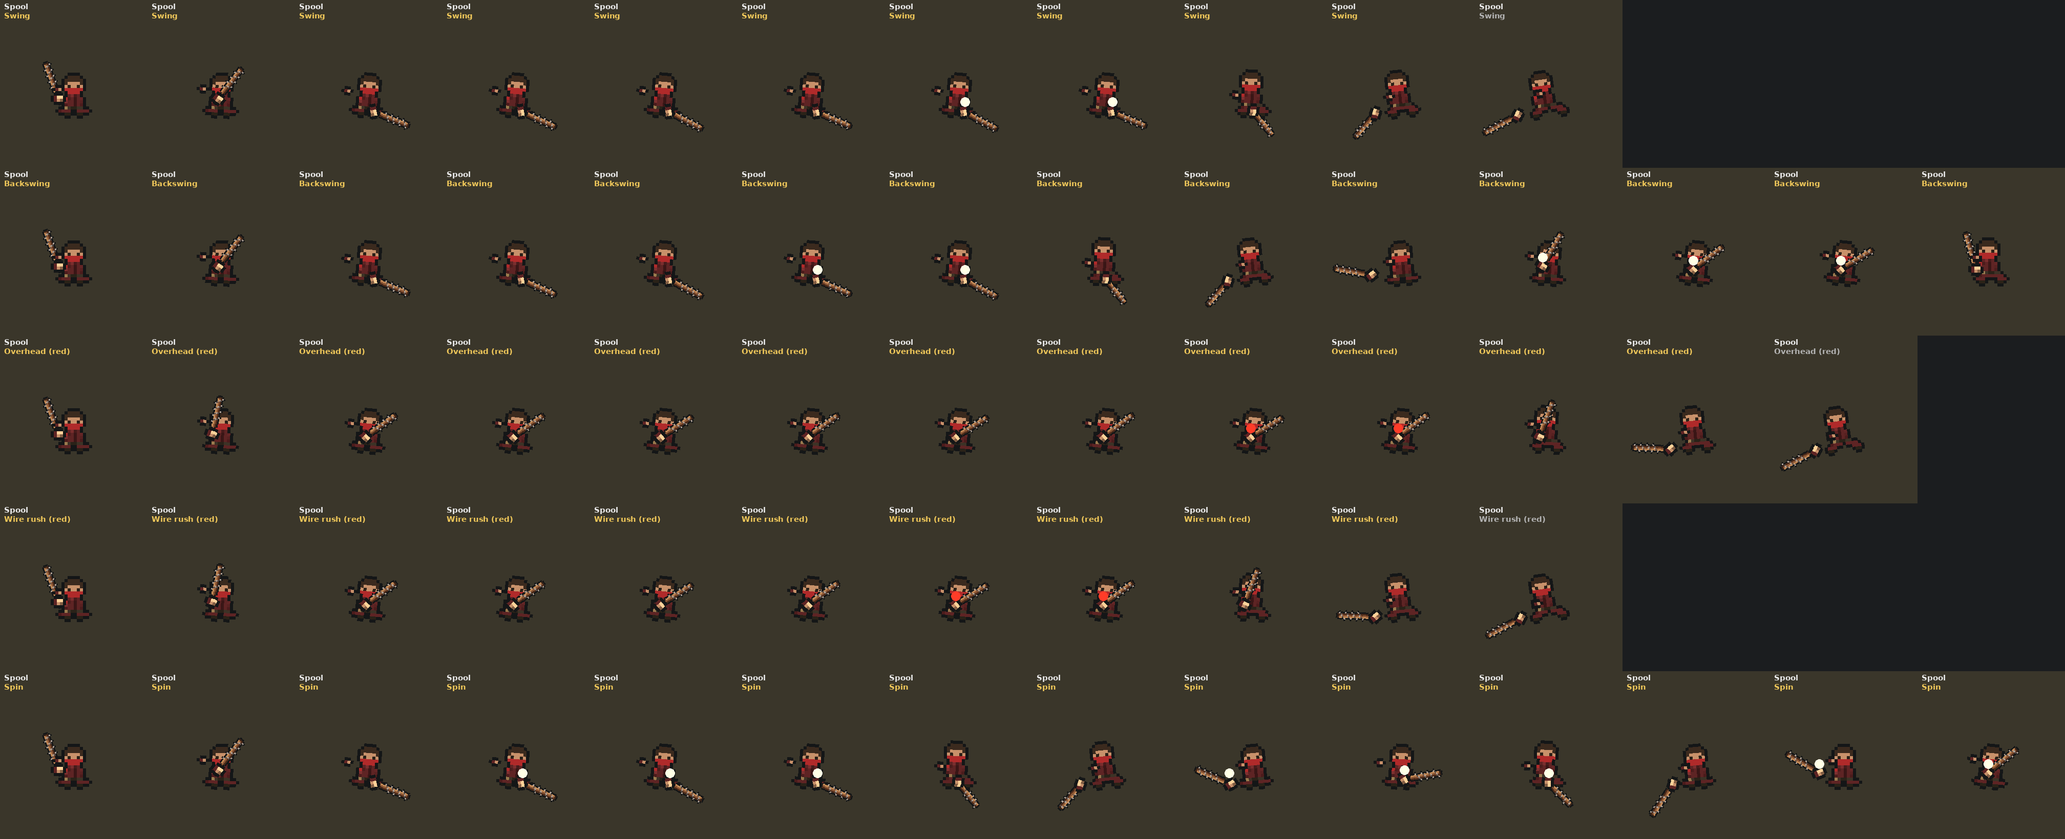
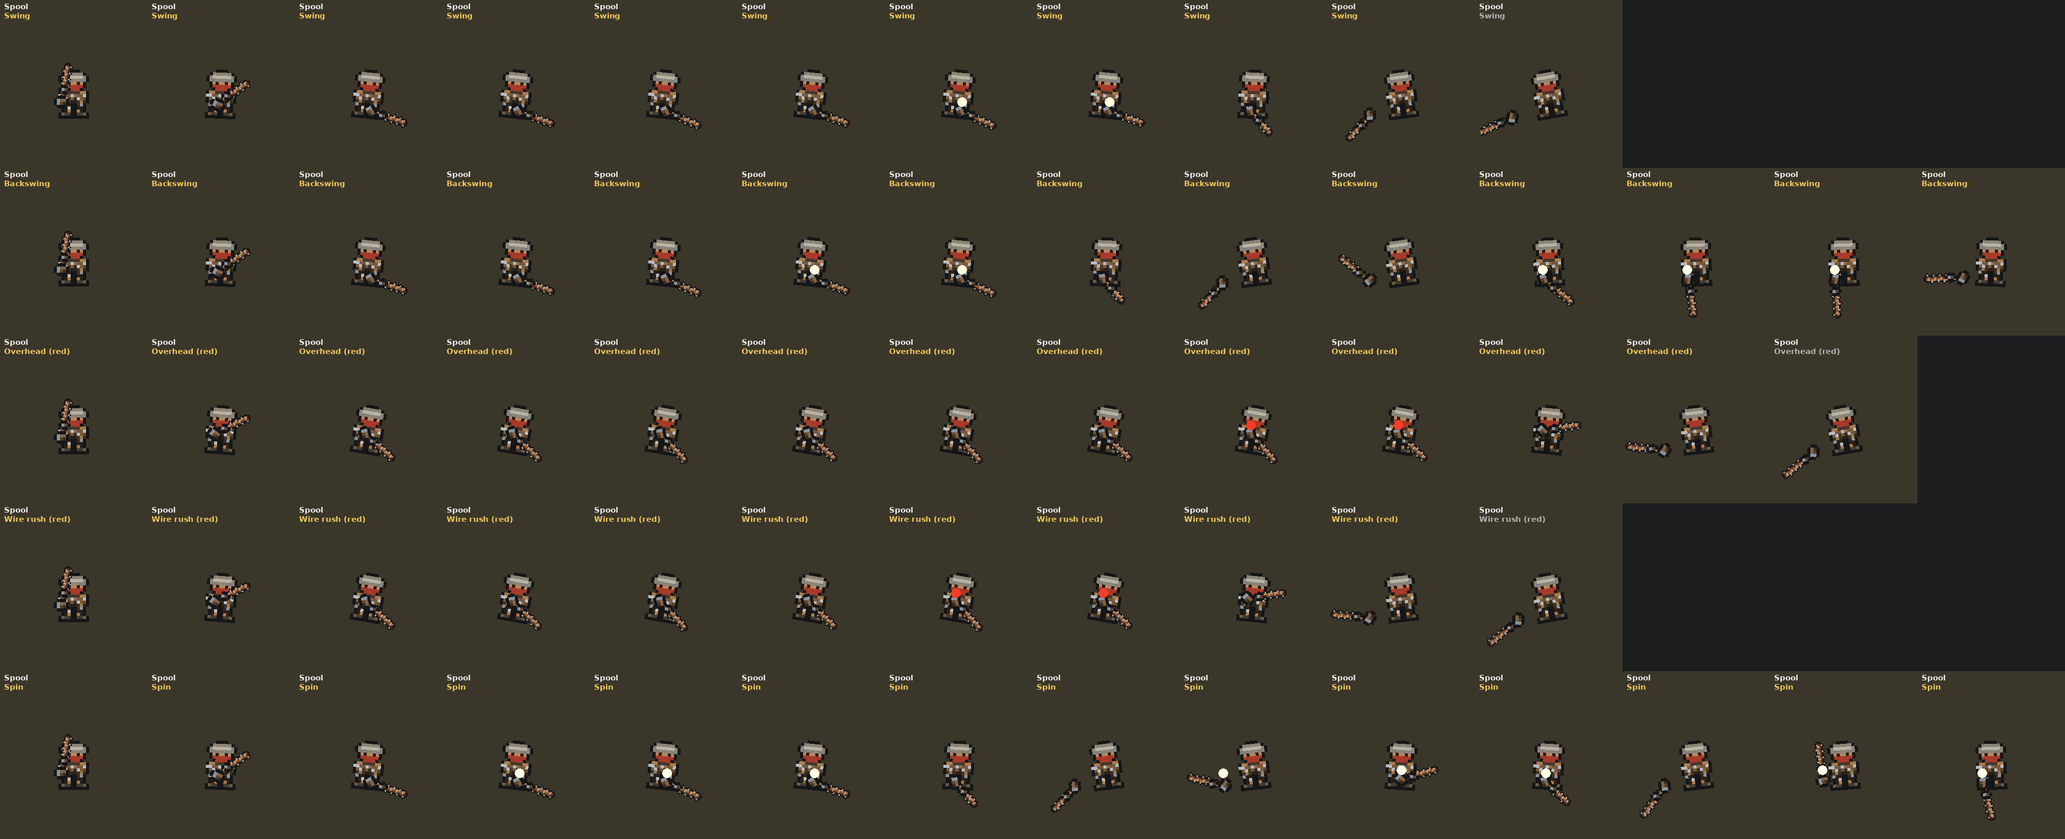
Spool: his own Barbwire Coat (unique sprite, stats, never in shops), the coat drops with the bat in working order; preview now uses the bat's two-handed pose style

diff --git a/Tools/compile_check/test/Program.cs b/Tools/compile_check/test/Program.cs
@@ -114,7 +114,7 @@ static class Program {
       }
     var allNames = ArmorDatabase.Tiers.Values.SelectMany(d => d.Values).Select(a => a.Name).ToHashSet();
     foreach (var n in SpriteAtlasIndex.Armor) Check(allNames.Contains(n), $"atlas name not an armor: {n}");
-    Check(ArmorDatabase.Tiers.Values.Sum(d => d.Count) == 180, "armor count " + ArmorDatabase.Tiers.Values.Sum(d => d.Count));
+    Check(ArmorDatabase.Tiers.Values.Sum(d => d.Count) == 181, "armor count (180 + Spool's Barbwire Coat) " + ArmorDatabase.Tiers.Values.Sum(d => d.Count));
     foreach (var t in MutantDatabase.Tiers.Values) foreach (var m in t.Values) Check(SpriteAtlasIndex.Mutants.Contains(m.Name), "no mutant sprite " + m.Name);
     Check(ShopDatabase.Items.Count(i => i.FactionIssue) == 143, "faction issue in shop list " + ShopDatabase.Items.Count(i => i.FactionIssue));
     // loadouts: every human faction, rank and zone tier gets weapon + armor; categories vary
@@ -1374,12 +1374,12 @@ static class Program {
         if (i > 15 && f.Doing == null && i > 30 * 3 && !Boss.Open(v)) break;
         var c = Melee.ChargeOf(v); var (vx, vy) = Ballistics.Pos(v); var (mx, my) = Ballistics.Pos(p);
         float aw = UnityEngine.Mathf.Atan2(-(my - vy), mx - vx) * UnityEngine.Mathf.Rad2Deg;
-        var fr = HeldPoseMath.Frame("melee", g, aw, 0f, 0f, 0f, c.Since(now), 1f, "none", 1, null, c.SwingFrom >= 0f ? now - c.SwingFrom : -1f, -1f, 99f, c.PoseKey, c.Move, c.From, now - c.GuardAt, now - c.BrokenAt, c.OpenK(now));
+        var fr = HeldPoseMath.Frame("melee", g, aw, 0f, 0f, 0f, c.Since(now), 1f, "none", 1, null, c.SwingFrom >= 0f ? now - c.SwingFrom : -1f, -1f, 99f, c.PoseKey ?? (spool ? wkey : null), c.Move, c.From, now - c.GuardAt, now - c.BrokenAt, c.OpenK(now));   // (the game passes the weapon's key when the boss has no pose set of his own: Spool's bat is the Heavy style, two hands)
         sb.Append(System.FormattableString.Invariant($"{(k++ > 0 ? "," : "")}[{fr.GunX},{fr.GunY},{fr.GunDeg},{fr.GripX},{fr.GripY},{(fr.HasSupport ? 1 : 0)},{fr.SupX},{fr.SupY},{fr.Lean},{mi},{(f.Doing != null ? 1 : 0)},{(fr.Length > 0f ? fr.Length : 1f)},{fr.HandDeg},{(now - f.GlintAt < 0.25f ? (f.GlintDanger ? 2 : 1) : 0)},\"{fr.Body}\"]"));
       }
       f.Doing = null;
     }
-    if (spool) { int ai = Array.IndexOf(SpriteAtlasIndex.Armor, "Raider Stitched Coat"); sb.Append("]}],\"armor\":[" + Math.Max(0, ai) + ",\"" + (ai >= 0 ? SpriteAtlasIndex.ArmorCuff[ai] : "#5a4a36") + "\",\"" + (ai >= 0 ? SpriteAtlasIndex.ArmorGlove[ai] : "#3d4148") + "\"]}"); }
+    if (spool) { var ug = UnitSprites.UniqueGloves["Barbwire Coat"]; sb.Append("]}],\"armor\":[0,\"" + ug.cuff + "\",\"" + ug.glove + "\"],\"body\":\"armor_unique_barbwire_coat.png\"}"); }
     else sb.Append("]}],\"armor\":[0,\"#1f2226\",\"#2a2c30\"],\"body\":\"armor_unique_black_visor_suit.png\"}");
     File.WriteAllText(path, sb.ToString()); Console.WriteLine((spool ? "spool" : "visor") + " moves -> " + path);
     Rt.On = false; Boss.Reset(); Melee.Reset(); EncounterState.Enemies.Clear(); EncounterState.InCombat = false;
@@ -2718,7 +2718,7 @@ static class Program {
     try {
       Check(Boss.Spool.Hp == 3600 && Boss.Spool.Moves.Count(m => m.Danger) == 2 && Boss.Spool.Moves.Any(m => m.Phase2Only) && Boss.Spool.Faction == "Outcasts" && !Boss.Spool.Vanishes, "Spool: 3600 HP, two red moves, phase 2 moves, an Outcast who keeps his body");
       var f = Boss.Spawn(Boss.Spool, px + 2, py); var h = f.Unit;
-      Check(h.Faction == "Outcasts" && h.EquippedWeapon?.Db?.Name == "Barbed Wire Bat" && h.EquippedArmor?.Name == "Raider Stitched Coat" && h.Unkillable && h.MaxHp == 3600, "Spool: spawns with the bat and a raider coat, holds at 1 HP until executed");
+      Check(h.Faction == "Outcasts" && h.EquippedWeapon?.Db?.Name == "Barbed Wire Bat" && h.EquippedArmor?.Name == "Barbwire Coat" && h.Unkillable && h.MaxHp == 3600, "Spool: spawns with the bat and his barbwire coat, holds at 1 HP until executed");
       Boss.Fights.Clear(); EncounterState.Enemies.Clear();
       // the lair wakes him when you come within range of the Dog Kennels, once
       Tier2Jobs.ZoneOverride = MacroMapDatabase.MapOf("scrapyard"); TerrainMap.Landmarks.Add(new LandmarkInstance { Name = SpoolBoss.Lair, X = px + 6, Y = py, Description = "" });
@@ -2733,6 +2733,8 @@ static class Program {
       // the break and the execution: the flag, the journal, the bat is on the body
       fs.Unit.Hp = 1; Boss.OnDamaged(fs.Unit); Check(fs.Broken, "Spool: at the break he drops to a knee");
       p.X = fs.Unit.X - 1; p.Y = fs.Unit.Y; Check(Boss.TryFinish(p) && Story.Has(SpoolBoss.Done) && fs.Unit.EquippedWeapon?.Db?.Name == "Barbed Wire Bat", "Spool: the execution sets spool_done and he still holds the bat to loot");
+      Check(fs.Unit.Inventory.Items.Any(i => i.Type == "weapon" && i.Name == "Barbed Wire Bat" && i.Condition == ItemCondition.Working) && fs.Unit.Inventory.Items.Any(i => i.Type == "armor" && i.Name == "Barbwire Coat" && i.Condition == ItemCondition.Working && i.Key == "BarbwireCoat"), "Spool: the bat and the Barbwire Coat are in his pack on the body, both in working order");
+      Check(!ShopDatabase.Items.Any(i => i.Name == "Barbwire Coat") && !Enumerable.Range(0, 300).Any(_ => EncounterGeneration.PickRandomArmorByTier(1, 5)?.Name == "Barbwire Coat"), "Spool: his coat is in no shop and no random loadout");
       Boss.Looted(fs.Unit); UnityEngine.Time.time += 10f; Boss.TickAll(); Check(EncounterState.Enemies.Contains(fs.Unit), "Spool: his body stays (no smoke grenade)");
       Tier2Jobs.ZoneOverride = null; SpoolBoss.Tick(0.1f); Check(Boss.Fights.Count(x => x.Def == Boss.Spool && !x.Finished) == 0, "Spool: he does not come back once he is done");
     } finally { Tier2Jobs.ZoneOverride = null; Rt.On = false; Boss.Reset(); EncounterState.Enemies.Clear(); EncounterState.InCombat = false; }

diff --git a/ArtSource/make_npc_looks.py b/ArtSource/make_npc_looks.py
@@ -22,6 +22,7 @@ HEADS = {
   "peakcap":   (["......KK", "....KHHH", "...KHhhh", "..KHHHHH", "....KFeF", "....KFFf", ".....KFF"], ["......KK", "....KHHH", "...KHhhh", "..KHHHHH", "....KAAA", "....KAAA", ".....KAA"]),   # a peaked cap, a wide brim
   "hoodgoggles":(["......KK", ".....KHh", "....KHhh", "....KVwV", "....KFeF", "....KNNN", ".....KNN"], ["......KK", ".....KHh", "....KHhh", "....KHHH", "....KHHH", "....KNNN", ".....KNN"]),   # a hood, goggles on the brow, a scarf over the mouth
   "mohawk":    (["......KA", ".....KFA", "....KFFA", "....KFFF", "....KFeF", "....KFFf", ".....KFF"], ["......KA", ".....KFA", "....KFFA", "....KFFA", "....KFFA", "....KFFf", ".....Kff"]),   # shaved sides, a crest
+  "ragmask":   (["......KK", "....KHHH", "...KHhhh", "...KHJHH", "....KFeF", "....KNNN", ".....KNN"], ["......KK", "....KHHH", "...KHhhh", "...KHJHH", "...KHHHH", "....KNNN", ".....KNN"]),   # a grey rag wound round the head with a strand of barbed wire, a red scarf over the mouth (Spool)
   "shaggy":    (["......KK", ".....KAA", "....KAAA", "....KAFF", "....KFeF", "....KFAA", ".....KAA"], ["......KK", ".....KAA", "....KAAA", "....KAAA", "....KAAA", "....KAAA", ".....KAA"]),   # unkempt hair and stubble
 }
 for k, (f, b) in HEADS.items(): av.HEADS[k] = f; av.HEADS_BACK[k] = b
@@ -38,10 +39,11 @@ LOOKS = {
   "Emil Rask":     dict(head="sidepart", body="jacket", S="#aab8c4", D="#3e4650", A="#6a4a2e", E=DARK, arm="#3a7a9a"),                                         # neat hair, a clean pale lab jacket
   "Konrad Hale":   dict(head="peakcap", body="jacket", H="#2a3450", S="#586038", D="#3a3a2a", A="#4a3a2a", E=DARK, arm="#3a7a9a"),                              # a peaked cap, an olive supply jacket
   "The Runner":    dict(head="hoodgoggles", body="jacket", H="#6b6a3a", S="#4a3a2a", D="#2e2a26", N="#a83a2a", E=DARK),                                       # hood, goggles, a red scarf
+  "Barbwire Coat": dict(head="ragmask", body="heavy", H="#8a8478", S="#46372c", P="#7a5a38", D="#2a2018", N="#a83a2a", J="#b8bcc0", E=DARK, F="#b8845e", f="#8e6244", arm="#b8bcc0"),   # Spool's: a patched leather coat, wire round the shoulders
   "Bogdan":        dict(head="mohawk", body="vest", S="#1c1c1e", P="#8a3a2a", D="#2a2a2a", A="#a02020", E=DARK, F="#c0866a", arm="#b02a2a"),                    # a Raider warlord: a red crest, black leather, rust plates
 }
 MARKS = {   # extra pixels (front only): scars, a bandage, a stubble line
-  "Pavel":       [(5, 12, "#d8d4c8"), (5, 13, "#d8d4c8"), (5, 13, "#b0504a")],                                   # a bandage on the thigh (a soaked one)
+  "Barbwire Coat": [(3, 8, "#b8bcc0"), (5, 9, "#b8bcc0"), (7, 8, "#b8bcc0"), (9, 9, "#b8bcc0"), (11, 8, "#b8bcc0"), (4, 11, "#8e949a"), (6, 12, "#b8bcc0"), (10, 11, "#8e949a")],   # barbed wire wound round the shoulders and chest  "Pavel":       [(5, 12, "#d8d4c8"), (5, 13, "#d8d4c8"), (5, 13, "#b0504a")],                                   # a bandage on the thigh (a soaked one)
   "Voss":        [(9, 5, "#a8685a"), (9, 6, "#a8685a")],                                                         # a scar down the cheek
   "Bogdan":      [(6, 4, "#a8685a"), (6, 5, "#a8685a"), (10, 5, "#a8685a")],                                     # scars
   "Lev Marchuk": [(7, 6, "#6a5a4a"), (8, 6, "#6a5a4a")],                                                         # stubble at the chin

diff --git a/Assets/Scripts/GameCore/HumanLootSystem.cs b/Assets/Scripts/GameCore/HumanLootSystem.cs
@@ -160,7 +160,7 @@ namespace GameCore
 
         /// <summary>New (Batch 10): the death-path twin of GrantWeaponDrop - rolls condition on
         /// the worn weapon and drops it into the corpse's own stash instead of the player's.</summary>
-        private static void AddWeaponToStash(HumanEnemy npc)
+        private static void AddWeaponToStash(HumanEnemy npc, string condition = null)
         {
             var wdb = npc.EquippedWeapon?.Db;
             if (wdb == null) return;
@@ -176,7 +176,7 @@ namespace GameCore
                 Price = Economy.Mid(Economy.WeaponBand(wdb)),
                 Category = cat,
                 Key = key,
-                Condition = Husk.Is(npc) ? ItemCondition.Broken : RollCondition(),
+                Condition = condition ?? (Husk.Is(npc) ? ItemCondition.Broken : RollCondition()),
             });
             // file 08: it holds 1d4+1 rounds of its standard ammo
             if (!string.IsNullOrEmpty(wdb.AmmoType))
@@ -185,7 +185,15 @@ namespace GameCore
 
         /// <summary>New (Batch 10): the death-path twin of the old GrantArmorDrop - rolls
         /// condition on the worn armor and drops it into the corpse's own stash.</summary>
-        private static void AddArmorToStash(HumanEnemy npc)
+        /// <summary>A boss's body: his worn weapon and armour go into his pack at once, in good condition (Spool: "drop together with the bat"), and the corpse is then finished with.</summary>
+        public static void StashWornGear(HumanEnemy npc, string condition)
+        {
+            if (npc == null || npc.CorpseLootFinalized) return;
+            npc.CorpseLootFinalized = true; npc.LootGranted = true;
+            AddWeaponToStash(npc, condition); AddArmorToStash(npc, condition);
+        }
+
+        private static void AddArmorToStash(HumanEnemy npc, string condition = null)
         {
             var adb = npc.EquippedArmor;
             if (adb == null) return;
@@ -201,7 +209,7 @@ namespace GameCore
                 Price = Economy.Mid(Economy.ArmorBand(adb, ParseTier(cat))),
                 Category = cat,
                 Key = key,
-                Condition = Husk.Is(npc) ? ItemCondition.Broken : RollCondition(),
+                Condition = condition ?? (Husk.Is(npc) ? ItemCondition.Broken : RollCondition()),
             });
         }
 

diff --git a/Assets/Scripts/GameData/ArmorDatabase.cs b/Assets/Scripts/GameData/ArmorDatabase.cs
@@ -40,6 +40,7 @@ namespace GameData
                 ["MarshReconSuit"] = new ArmorDef { Name = "Marsh Recon Suit", PhysDR = 0.2f, AnomDR = 0.3f, BeltSlots = 3, ModSlots = 2, Mp = 4 },
                 ["ContractorLight"] = new ArmorDef { Name = "Contractor Light", PhysDR = 0.2f, AnomDR = 0.15f, BeltSlots = 2, ModSlots = 2, Mp = 4 },
                 ["DaybreakSuit"] = new ArmorDef { Name = "Daybreak Suit", PhysDR = 0.25f, AnomDR = 0.25f, BeltSlots = 2, ModSlots = 2, Mp = 4 },
+                ["BarbwireCoat"] = new ArmorDef { Name = "Barbwire Coat", PhysDR = 0.4f, AnomDR = 0.15f, BeltSlots = 2, ModSlots = 3, Mp = 4, WeightKg = 6f },   // 2026-11-19: Spool's own (Boss 4), not in any loot table; it drops with the Barbed Wire Bat
                 ["RaiderStitchedCoat"] = new ArmorDef { Name = "Raider Stitched Coat", PhysDR = 0.25f, AnomDR = 0.15f, BeltSlots = 1, ModSlots = 2, Mp = 4 },
                 ["SentinelServiceSuit"] = new ArmorDef { Name = "Sentinel Service Suit", PhysDR = 0.3f, AnomDR = 0.1f, BeltSlots = 1, ModSlots = 2, Mp = 4 },
                 ["HazardRubberSuit"] = new ArmorDef { Name = "Hazard Rubber Suit", PhysDR = 0.25f, AnomDR = 0.5f, BeltSlots = 1, ModSlots = 1, Mp = 3, Note = "Gas Hood" },
@@ -81,6 +82,9 @@ namespace GameData
         };
 
         /// <summary>Mirrors JS's ARMOR_DB[tier][key] lookup pattern. Returns null if not found.</summary>
+        /// <summary>2026-11-19: armour that is in the table (so it can be looted, worn and priced) but is in no shop and no random loadout: a boss's own.</summary>
+        public static readonly System.Collections.Generic.HashSet<string> Unique = new System.Collections.Generic.HashSet<string> { "BarbwireCoat" };
+
         public static ArmorDef Get(string tier, string key)
         {
             if (Tiers.TryGetValue(tier, out var group) && group.TryGetValue(key, out var armor))

diff --git a/Assets/Scripts/GameCore/UnitSprites.cs b/Assets/Scripts/GameCore/UnitSprites.cs
@@ -235,12 +235,12 @@ namespace GameCore
         /// <summary>Boss 1: one-of-a-kind suits outside the faction atlases (ArtSource/make_unique_armor.py): a 96x16 strip -
         /// front, walk a, walk b, back, back walk a, back walk b - added under the suit's name like an atlas cell.</summary>
         public static readonly string[] UniqueSuits = { "Black Visor Suit", "Grey Robe",
-            "Yefim", "Pavel", "Lev Marchuk", "Dr. Priya Osei", "The Scrap King", "Voss", "Emil Rask", "Konrad Hale", "The Runner", "Bogdan" };   // the last ten: the story's people (ArtSource/make_npc_looks.py, StoryNpcs.cs)
+            "Yefim", "Pavel", "Lev Marchuk", "Dr. Priya Osei", "The Scrap King", "Voss", "Emil Rask", "Konrad Hale", "The Runner", "Bogdan", "Barbwire Coat" };   // the last ten: the story's people (ArtSource/make_npc_looks.py, StoryNpcs.cs)
         public static readonly Dictionary<string, (string cuff, string glove)> UniqueGloves = new Dictionary<string, (string, string)>
             { ["Black Visor Suit"] = ("#1f2226", "#2a2c30"), ["Grey Robe"] = ("#4f555c", "#aab0ae"),
               ["Yefim"] = ("#6b5a3e", "#3a3028"), ["Pavel"] = ("#8794a0", "#d8bca6"), ["Lev Marchuk"] = ("#4a4036", "#2a2a2a"), ["Dr. Priya Osei"] = ("#e0e2e0", "#b88060"),
               ["The Scrap King"] = ("#2a2420", "#6a4a2a"), ["Voss"] = ("#6a5c42", "#2a2a28"), ["Emil Rask"] = ("#aab8c4", "#c8a688"), ["Konrad Hale"] = ("#586038", "#3a3a2a"),
-              ["The Runner"] = ("#4a3a2a", "#2e2a26"), ["Bogdan"] = ("#1c1c1e", "#2a2a2a") };
+              ["The Runner"] = ("#4a3a2a", "#2e2a26"), ["Bogdan"] = ("#1c1c1e", "#2a2a2a"), ["Barbwire Coat"] = ("#8e949a", "#5a4430") };
 
         static void Unique(string name)
         {

diff --git a/Assets/Scripts/GameCore/Boss.cs b/Assets/Scripts/GameCore/Boss.cs
@@ -105,7 +105,7 @@ namespace GameCore
         // The same fight as the Visor on a slower, heavier weapon: long wind-ups, big openings after each move, a two-handed bat that bleeds and concusses.
         public static readonly Def Spool = new Def
         {
-            Name = "Spool", Title = "THE SCRAP KING'S EXILE", Weapon = "BarbedWireBat", Armor = "RaiderStitchedCoat", Hp = 3600, Faction = "Outcasts", Rank = "Veteran", DoneFlag = "spool_done", Vanishes = false,
+            Name = "Spool", Title = "THE SCRAP KING'S EXILE", Weapon = "BarbedWireBat", Armor = "BarbwireCoat", Hp = 3600, Faction = "Outcasts", Rank = "Veteran", DoneFlag = "spool_done", Vanishes = false,
             StepSeconds = 0.4f, Recover = 1.0f, Phase2Line = "He tears the rag off the grip. The wire is bare now, and so is he.",
             Moves = new[]
             {
@@ -298,6 +298,7 @@ namespace GameCore
             Story.Cutscene(x, y, 1.6f);
             HitStop(0.45f);
             var fx = CombatFx.Push("finisher", p, f.Unit, p.EquippedWeapon); fx.Now = true; fx.Hit = true; fx.Killed = true;
+            if (f.Def == Spool) HumanLootSystem.StashWornGear(f.Unit, ItemCondition.Working);   // before the death hook rolls his loot: the bat and the coat, in good order
             f.Unit.Unkillable = false; f.Unit.Hp = 0;
             Weapon.OnTargetKilled(p, f.Unit);
             Splash(f.Def.Name.ToUpperInvariant(), "DEFEATED");

diff --git a/Tools/render/melee_moves.py b/Tools/render/melee_moves.py
@@ -21,7 +21,9 @@ def main(src, out):
     def posed(key):                                                  # Melee 3: the swing's body frame
         if not key: return body
         if "body" in d:
-            strip = Image.open(os.path.join(SPR, d["body"][:-4] + "_poses.png")).convert("RGBA"); i = PKEYS.index(key)
+            pf = os.path.join(SPR, d["body"][:-4] + "_poses.png")
+            if not os.path.exists(pf): return body                      # a unique suit with no pose strip (Spool's coat): the front cell
+            strip = Image.open(pf).convert("RGBA"); i = PKEYS.index(key)
             return strip.crop((i * 16, 0, i * 16 + 16, 16)).resize((16 * S, 16 * S), Image.NEAREST)
         im = Image.open(os.path.join(SPR, f"armor_pose_{key}.png")).convert("RGBA")
         return im.crop(((ai % 16) * 16, (ai // 16) * 16, (ai % 16) * 16 + 16, (ai // 16) * 16 + 16)).resize((16 * S, 16 * S), Image.NEAREST)

diff --git a/Assets/Scripts/GameCore/SpoolBoss.cs b/Assets/Scripts/GameCore/SpoolBoss.cs
@@ -40,7 +40,7 @@ namespace GameCore
         /// <summary>His execution (Boss.TryFinish): what the Dog Kennels were hiding, and the bat.</summary>
         public static void Defeated(Player p, HumanEnemy h)
         {
-            Story.Journal("Spool: the Scrap King's exile held the Dog Kennels with a barbed wire bat. He is down. The bat is yours.");
+            Story.Journal("Spool: the Scrap King's exile held the Dog Kennels with a barbed wire bat. He is down. The bat and his coat are yours.");
             GameLog.Event("Spool kneels in the dirt, and does not get up again. The bat is still wet. Take it from his hands.");
         }
     }

diff --git a/Assets/Scripts/GameCore/EncounterGeneration.cs b/Assets/Scripts/GameCore/EncounterGeneration.cs
@@ -87,7 +87,7 @@ namespace GameCore
                 int tier = ParseTierKey(tierKey);
                 if (tier < minTier || tier > maxTier) continue;
                 foreach (var kvp in ArmorDatabase.Tiers[tierKey])
-                    if (includeFactionIssue || !FactionArmorDatabase.IsFactionIssue(kvp.Key))
+                    if (!ArmorDatabase.Unique.Contains(kvp.Key) && (includeFactionIssue || !FactionArmorDatabase.IsFactionIssue(kvp.Key)))
                         pool.Add(kvp.Value);
             }
             return pool.Count == 0 ? null : pool[Random.Range(0, pool.Count)];

diff --git a/Assets/Scripts/GameData/ShopDatabase.cs b/Assets/Scripts/GameData/ShopDatabase.cs
@@ -104,6 +104,7 @@ namespace GameData
                 int tierNum = int.Parse(tierEntry.Key.Replace("tier", ""));
                 foreach (var armorEntry in tierEntry.Value)
                 {
+                    if (GameData.ArmorDatabase.Unique.Contains(armorEntry.Key)) continue;     // a boss's own armour is in no shop
                     var def = armorEntry.Value;
                     list.Add(new ShopItemDef
                     {

diff --git a/Assets/Scripts/GameCore/HeadGear.cs b/Assets/Scripts/GameCore/HeadGear.cs
@@ -197,6 +197,7 @@ namespace GameCore
             ["Raider Ringleader Jacket"] = "bare",
             ["Raider Scrap Plates"] = "balaclava",
             ["Raider Stitched Coat"] = "bandit",
+            ["Barbwire Coat"] = "bandit",
             ["Raider Tire-Plate Armor"] = "bandit",
             ["Raider Tracksuit"] = "bandit",
             ["Raider Veteran Coat"] = "hoodface",

diff --git a/ArtSource/WORK_LOG.md b/ArtSource/WORK_LOG.md
@@ -6744,3 +6744,6 @@ Yan: "The concrete Watch Towers do not look good, they dont match the rest of th
 - Harness: 9 Spool checks (def, spawn, lair wake once, restart, move choice, break, execution flag and bat, body stays, never again). pt-BR lines added. `maps/renders/spool_lair.png` shows the yard: 14x10, a crate row along the north fence for cover, a gap in the west fence.
 - NOT run in Unity: how the two-handed bat's wind-up and the red glint read (the Visor's pose set is knife-specific, Spool uses the generic bat poses), whether the damage is fair (Mult values are guesses), no story reason yet beyond a line (an option: the Scrap King asks you to clear him), no art for him beyond the Raider Stitched Coat and the bat sprite.
 - Spool preview (2026-11-19): `dotnet /tmp/test.dll spoolmoves moves.json && python3 Tools/render/melee_moves.py moves.json out` (the `visormoves` pipeline, now also for Spool) -> `maps/renders/spool_moves_sheet.png` / `spool_moves.gif`: a row per move through the real `Boss.Tick`, the glint white (parry) or red (dodge). The first render showed every move with the same overhead chop, so the moves now use the two-handed bat's three swings (0 overhead slam, 1 wide sweep, 2 rising swing): Swing = sweep, Backswing = sweep + rising, Overhead and Wire rush = slam, Spin = sweep, sweep, rising.
+- Spool's own armour (2026-11-19, Yan: "a unique sprite armor, and for it to drop together with the bat"): the Barbwire Coat. `make_npc_looks.py` draws it (a grey rag round the head with a strand of wire, a red scarf, patched leather, wire at the shoulders and chest; `armor_unique_barbwire_coat(_x2).png`; no pose strip: its crouch/lunge frames fall back to the front cell), `UnitSprites.UniqueSuits/UniqueGloves`, `ArmorDatabase` tier 2 "BarbwireCoat" (40 % physical, 15 % anomaly, 6 kg, 2 belt / 3 mod slots; `ArmorDatabase.Unique` keeps it out of every shop and random loadout), head gear "bandit". Spool wears it; the execution calls `HumanLootSystem.StashWornGear` BEFORE the death hook rolls the loot, so the bat and the coat are in his pack, both in Working order, whatever the dice. Harness: the loot, the condition, the key, no shop/random loadout.
+- Preview fix: the first Spool preview (`spoolmoves`) passed no weapon key to the pose code, so it drew him in the one-handed Chop style; the game passes the bat's key (Heavy style: the second glove sits on the handle above the fist). The preview now does the same. `maps/renders/spool_moves_sheet.png` / `.gif` / `barbwire_coat_preview.png` regenerated.
+- Found, not fixed: `ArtSource/double_armor.py` skips only files ending `_x2.png`, so every run doubles its own `_x2_poses` outputs again; 37 junk files named like `armor_unique_black_visor_suit_poses_x2_poses_x2....png` are tracked in Assets/Resources/Sprites. Asked Yan before deleting.
